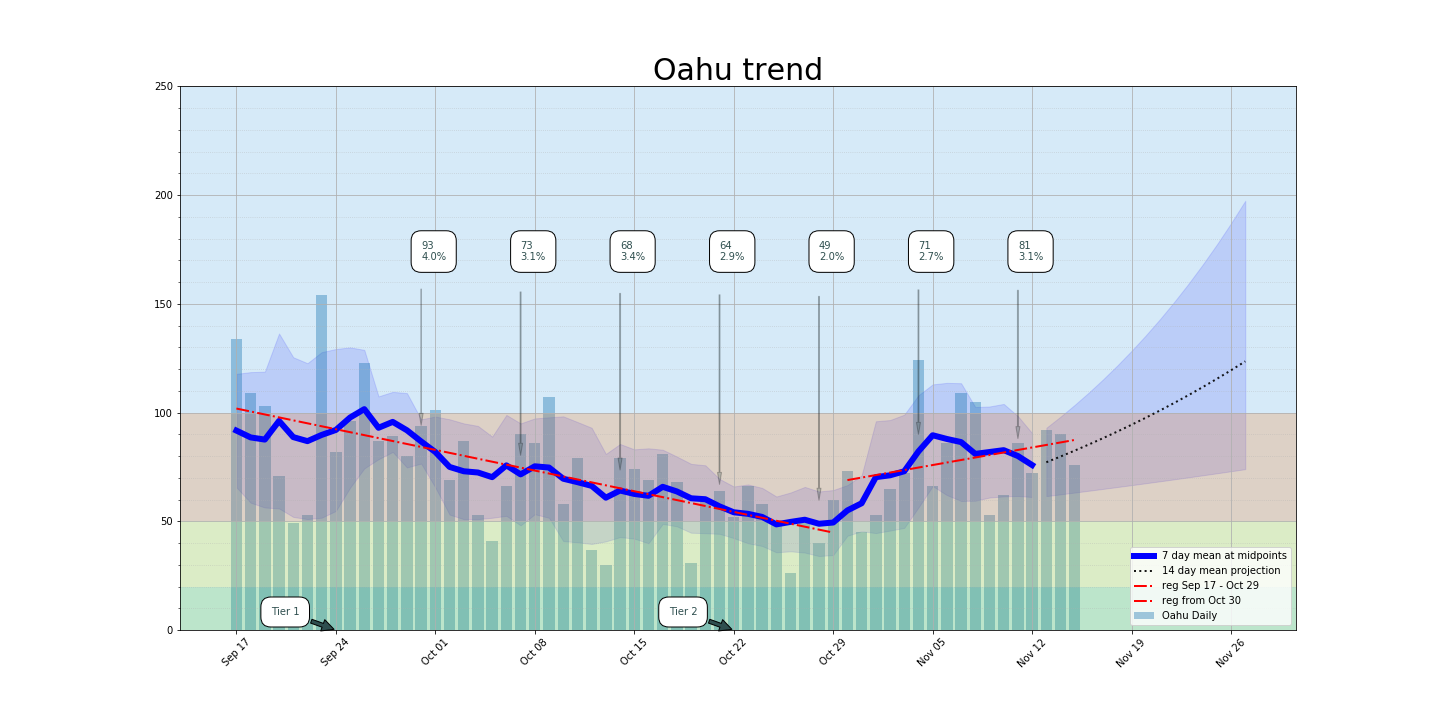
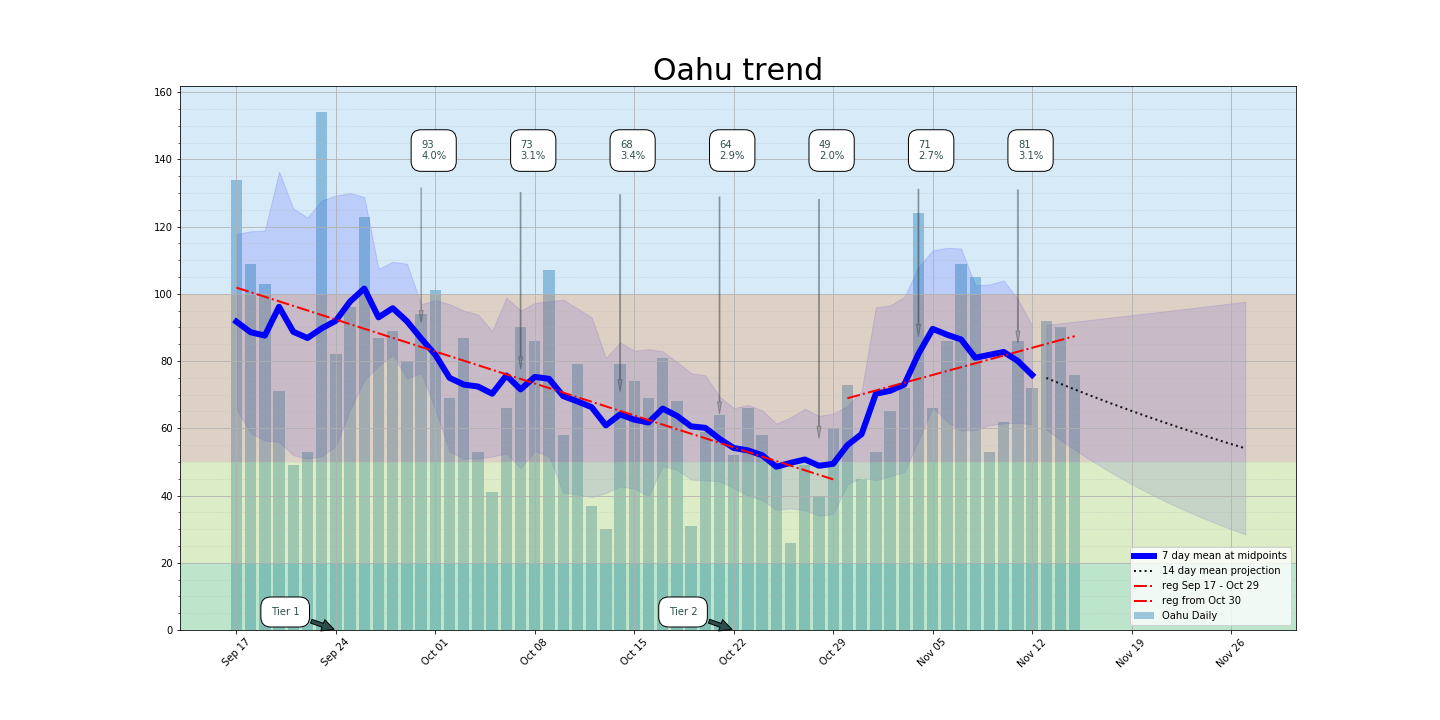
Add files via upload

diff --git a/index.html b/index.html
@@ -194,7 +194,7 @@
 		
 		<br><img class="center-fit" src="oahu_smoothed.png" alt="Oahu daily cases with smoothed average">
 		<br><img class="center-fit" src ="trend.png" alt="Oahu daily cases with 7 day mean and trend projection">
-		<p class="center-fit">The average rate over the last 2 weeks was about 1.034, std = 0.021. Doubling days about 21. Rt (6 day rate) around 1.224.</p>
+		<p class="center-fit">The average rate over the last week was about 0.977, std = 0.028. Doubling days about -30. Rt (6 day rate) around 0.869.</p>
 		<br><img class="center-fit" src="rfSignal.png" alt="Rising or Falling as percent of standard deviation and phase corrected">
 	</div>
 	<script data-goatcounter="https://webb001.goatcounter.com/count"
